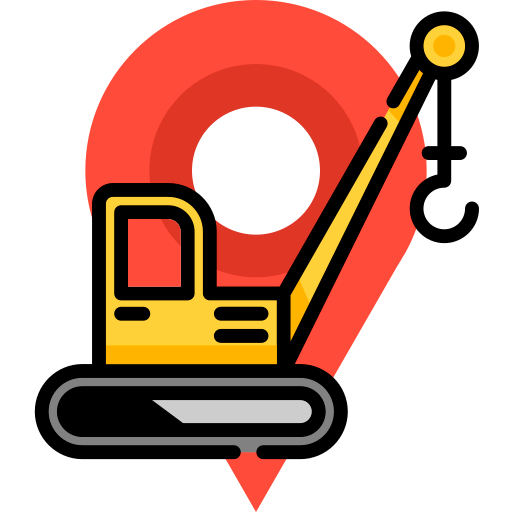
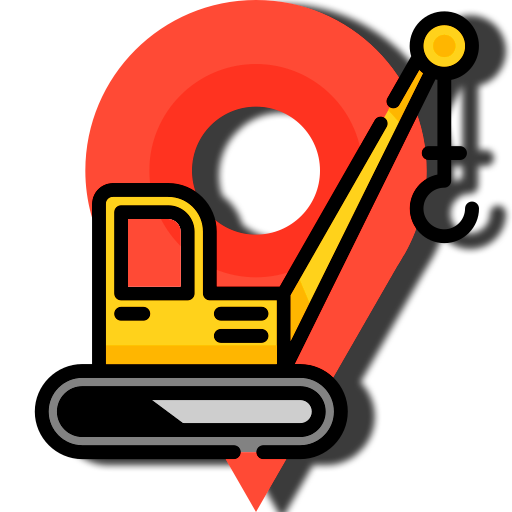
melhorias gerais

Changed region(s): [[0.1875, 0.125, 0.7812, 0.6875], [0.5, 0.0, 1.0, 1.0], [0.1562, 0.875, 0.4688, 0.9375]]

diff --git a/public/app.js b/public/app.js
@@ -7,8 +7,8 @@ var map = L.map('map').setView([-15.793889, -47.882778], 4); // Coordenadas apro
 // Ícone do marcador
 var iconePersonalizado = L.icon({
     iconUrl: 'assets/map-marker2.png', // Certifique-se de que o caminho para sua imagem está correto
-    iconSize: [38, 38],
-    iconAnchor: [19, 38],
+    iconSize: [50 , 50],
+    iconAnchor: [23, 50],
     popupAnchor: [0, -38],
 });
 
@@ -48,7 +48,6 @@ L.Control.PosicionarConstrucao = L.Control.extend({
         L.DomEvent.on(btn, 'click', function(e) {
             adicionarMarcador = true;
             ativarCursorDeMarcador(); // Ativar o cursor de marcador
-            //alert('Clique no mapa para posicionar a construção.');
         });
 
         return btn;
@@ -67,14 +66,6 @@ L.control.posicionarConstrucao = function(opts) {
 // Adicionar o botão ao mapa no canto superior esquerdo
 L.control.posicionarConstrucao({ position: 'topleft' }).addTo(map);
 
-// Função para abrir o estoque da construção em uma nova página
-function abrirEstoque(construcao) {
-    // Abrir a página 'estoque.html' passando o ID da construção via query string
-    var url = `estoque.html?id=${construcao.id}`;
-    window.open(url, '_blank', 'width=400,height=500');
-}
-
-
 // Função para carregar construções do backend e ajustar o zoom
 function carregarConstrucoes() {
     fetch('http://localhost:3000/construcoes')
@@ -83,8 +74,17 @@ function carregarConstrucoes() {
             var bounds = new L.LatLngBounds();
             data.forEach(construcao => {
                 var marker = L.marker([construcao.latitude, construcao.longitude], { icon: iconePersonalizado }).addTo(map);
-                marker.bindPopup(`<b>${construcao.nome}</b><br>Clique para ver o estoque.`).on('click', function() {
-                    abrirEstoque(construcao);
+
+                // Usando bindTooltip para mostrar o nome da construção permanentemente
+                marker.bindTooltip(`<b>${construcao.nome}</b><br>Clique para ver o estoque.`, {
+                    permanent: true,      // A tooltip ficará visível permanentemente
+                    direction: 'top',     // A tooltip aparecerá acima do marcador
+                    className: 'custom-tooltip', // Adicionando uma classe customizada, se necessário
+                    offset: [0, -60]
+                });
+
+                marker.on('click', function() {
+                    abrirEstoque(construcao);  // Abrir o estoque ao clicar no marcador
                 });
 
                 // Adicionar as coordenadas do marcador ao bounds
@@ -97,7 +97,7 @@ function carregarConstrucoes() {
                         map.removeLayer(marker);
 
                         // Remover do backend
-                        fetch('http://localhost:3000/construcoes/' + construcao.id, {
+                        fetch(`http://localhost:3000/construcoes/${construcao.id}`, {
                             method: 'DELETE',
                             headers: {
                                 'Content-Type': 'application/json'
@@ -121,6 +121,13 @@ function carregarConstrucoes() {
 
 // Chamar a função para carregar as construções ao iniciar
 carregarConstrucoes();
+
+// Função para abrir o estoque da construção em uma nova página
+function abrirEstoque(construcao) {
+    // Abrir a página 'estoque.html' passando o ID da construção via query string
+    var url = `estoque.html?id=${construcao.id}`;
+    window.open(url, '_blank', 'width=400,height=500');
+}
 
 // Função para adicionar um marcador no mapa ao clicar (apenas se adicionarMarcador for true)
 function onMapClick(e) {
@@ -149,8 +156,16 @@ function onMapClick(e) {
             .then(data => {
                 // Adicionar a nova construção ao mapa
                 var marker = L.marker([data.latitude, data.longitude], { icon: iconePersonalizado }).addTo(map);
-                marker.bindPopup(`<b>${data.nome}</b><br>Clique para ver o estoque.`).on('click', function() {
-                    abrirEstoque(data);
+
+                // Mostrar o nome da construção permanentemente com a tooltip
+                marker.bindTooltip(`<b>${data.nome}</b><br>Clique para ver o estoque.`, {
+                    permanent: true,
+                    direction: 'top',
+                    className: 'custom-tooltip'
+                });
+
+                marker.on('click', function() {
+                    abrirEstoque(data);  // Abrir o estoque ao clicar no marcador
                 });
 
                 alert('Nova construção adicionada!');

diff --git a/public/style.css b/public/style.css
@@ -43,3 +43,4 @@ h1.titulo{
     border-color: #888;
 }
 
+
